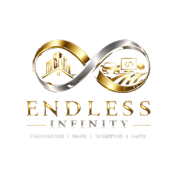
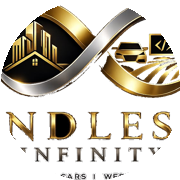
On branch main  Your branch and 'origin/main' have diverged,  and have 1 and 2 different commits each, respectively.
Changes to be committed:
	modified:   index.html
	modified:   public/apple-touch-icon.png
	modified:   public/favicon-16x16.png
	modified:   public/favicon-192x192.png
	modified:   public/favicon-32x32.png
	modified:   public/favicon-512x512.png
	modified:   public/favicon-64x64.png
	modified:   public/favicon-navbar.png
	modified:   public/favicon.ico
	new file:   public/images/logo-navbar-transparent.png
	new file:   public/images/logo-transparent.png
	modified:   src/components/layout/Navbar.tsx
	modified:   src/data/site.ts
	modified:   tools/generate_favicons.py

diff --git a/src/components/layout/Navbar.tsx b/src/components/layout/Navbar.tsx
@@ -28,21 +28,15 @@ export default function Navbar() {
       )}
     >
       <nav className="max-w-7xl mx-auto px-4 lg:px-6 flex items-center justify-between gap-6">
-        <Link to="/" className="shrink-0 flex items-center gap-2.5">
-          <img
-            src={siteConfig.logo}
-            alt={siteConfig.name}
-            width={48}
-            height={48}
-            className="h-11 w-11 md:h-12 md:w-12 rounded-lg object-cover bg-black ring-1 ring-white/10"
-          />
-          <span
-            className={cn(
-              "font-display text-2xl md:text-[1.7rem] tracking-tight leading-none",
-              overHero ? "text-white" : "text-foreground"
-            )}
-          >
-            E <span className="text-gold">I</span>
+        <Link to="/" className="shrink-0 flex items-center">
+          <span className="flex h-16 w-16 sm:h-[72px] sm:w-[72px] md:h-20 md:w-20 items-center justify-center overflow-hidden rounded-full bg-black/70 p-1.5 shadow-lg ring-1 ring-white/15">
+            <img
+              src={siteConfig.navbarLogo}
+              alt={siteConfig.name}
+              width={1024}
+              height={1024}
+              className="h-full w-full object-contain"
+            />
           </span>
         </Link>
 

diff --git a/index.html b/index.html
@@ -2,12 +2,12 @@
 <html lang="en" class="dark">
   <head>
     <meta charset="UTF-8" />
-    <link rel="icon" type="image/svg+xml" href="/favicon.svg" />
-    <link rel="apple-touch-icon" href="/apple-touch-icon.png" />
-    <link rel="icon" type="image/png" sizes="32x32" href="/favicon-32x32.png" />
-    <link rel="icon" type="image/png" sizes="16x16" href="/favicon-16x16.png" />
+    <link rel="icon" type="image/png" sizes="64x64" href="/favicon-64x64.png?v=2" />
+    <link rel="icon" type="image/png" sizes="32x32" href="/favicon-32x32.png?v=2" />
+    <link rel="icon" type="image/png" sizes="16x16" href="/favicon-16x16.png?v=2" />
+    <link rel="shortcut icon" href="/favicon.ico?v=2" />
+    <link rel="apple-touch-icon" href="/apple-touch-icon.png?v=2" />
     <link rel="manifest" href="/site.webmanifest" />
-    <link rel="shortcut icon" href="/favicon.ico" />
     <meta name="viewport" content="width=device-width, initial-scale=1.0, viewport-fit=cover" />
     <meta name="theme-color" content="#0B0B0B" />
     <meta name="mobile-web-app-capable" content="yes" />

diff --git a/src/data/site.ts b/src/data/site.ts
@@ -2,6 +2,7 @@ export const siteConfig = {
   name: "Endless Infinity Properties",
   shortName: "Endless Infinity",
   logo: "/images/logo.jpeg",
+  navbarLogo: "/images/logo-transparent.png",
   tagline: "Property. Technology. Enduring wealth.",
   altTagline: "Building the future through real estate, technology, and strategic property investment",
   description:

diff --git a/tools/generate_favicons.py b/tools/generate_favicons.py
@@ -54,6 +54,13 @@ def remove_edge_black_background(image, threshold=40):
     return image
 
 im = remove_edge_black_background(im)
+transparent_logo_path = os.path.join(OUT, 'images', 'logo-transparent.png')
+im.save(transparent_logo_path, format='PNG')
+print('Wrote', transparent_logo_path)
+navbar_logo = im.crop(im.getbbox()) if im.getbbox() else im
+navbar_logo_path = os.path.join(OUT, 'images', 'logo-navbar-transparent.png')
+navbar_logo.save(navbar_logo_path, format='PNG')
+print('Wrote', navbar_logo_path)
 
 def crop_to_content(image):
     bg = Image.new('RGBA', image.size, (255, 255, 255, 0))
